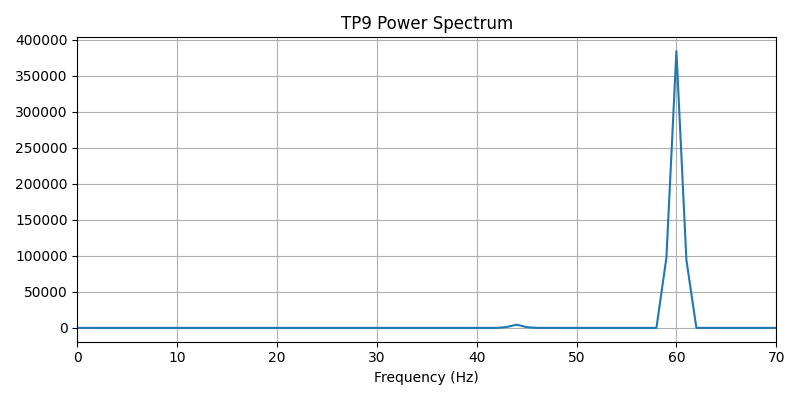
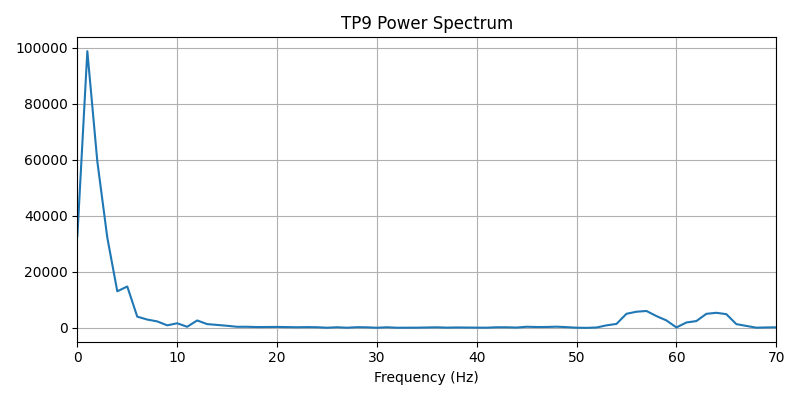
now reports peak alpha freq (8-13 Hz)

Changed region(s): [[0.0, 0.09, 0.9688, 0.84], [0.0, 0.63, 0.0938, 0.75]]

diff --git a/processor.py b/processor.py
@@ -21,15 +21,15 @@ class EEGProcessor:
         for channel in eeg:
 
             data = eeg[channel]
-#            data = filtfilt( #remove 60Hz electrical noise
- #               self.b_notch,
-  #               self.a_notch,
-   #              data
-    #        )
+            data = filtfilt( #remove 60Hz electrical noise
+                 self.b_notch,
+                 self.a_notch,
+                 data
+            )
             freqs, psd = welch(
                 data,
-                fs=256,
-                nperseg=256
+                fs=self.fs,
+                nperseg=self.fs
             )
             if self.first_plot:
                 plt.figure(figsize=(8,4))
@@ -43,12 +43,18 @@ class EEGProcessor:
                 print("Saved PSD to psd.png") #^_^
                 self.first_plot = False
             alpha = (freqs >= 8) & (freqs <= 13)
+
+            alpha_freqs = freqs[alpha]
+            alpha_psd = psd[alpha]
+            peak_alpha_freq = alpha_freqs[np.argmax(alpha_psd)]
+            print(f"{channel} peak alpha frequency: {peak_alpha_freq:.1f} Hz")
+
             alpha_power = np.sum(psd[alpha])
             print(f"{channel}: Alpha power = {alpha_power:.2f}")
 
-            peak_index = np.argmax(psd)
-            peak_freq = freqs[peak_index]
-            print(f"{channel} peak frequency: {peak_freq:.1f} Hz")
+#           peak_index = np.argmax(psd)
+#           peak_freq = freqs[peak_index]
+#           print(f"{channel} peak frequency: {peak_freq:.1f} Hz")
 
             rms = np.sqrt(np.mean(data**2))
             print(